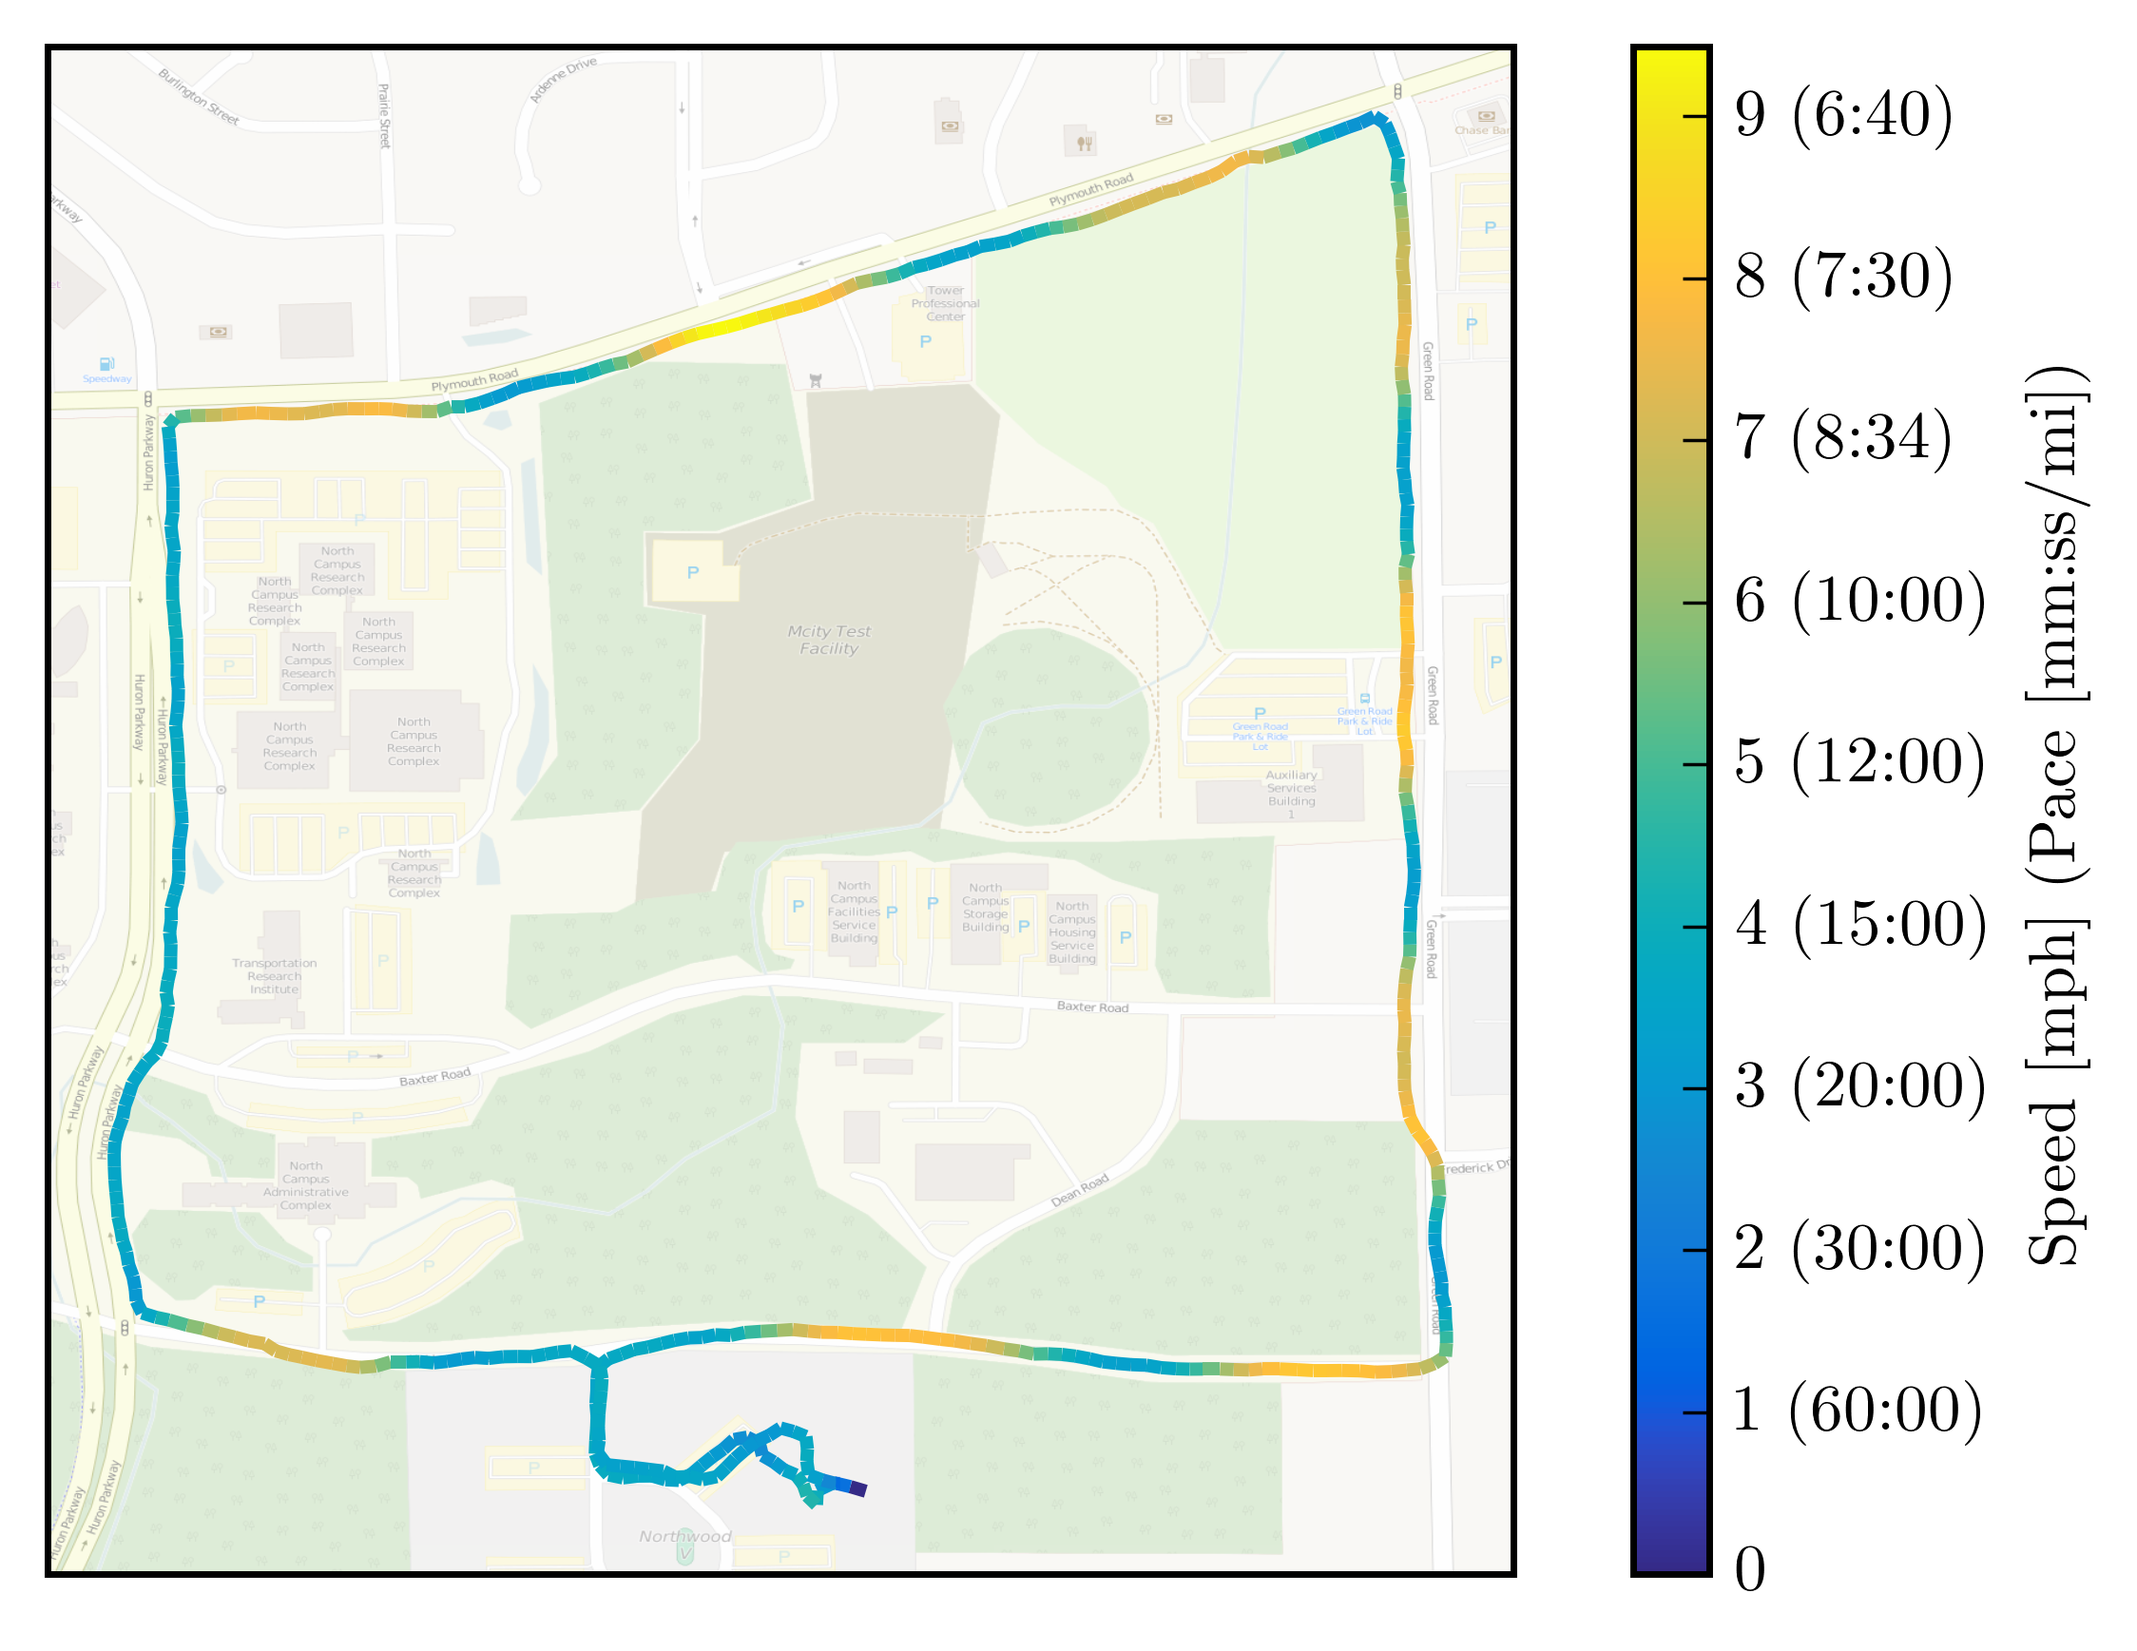
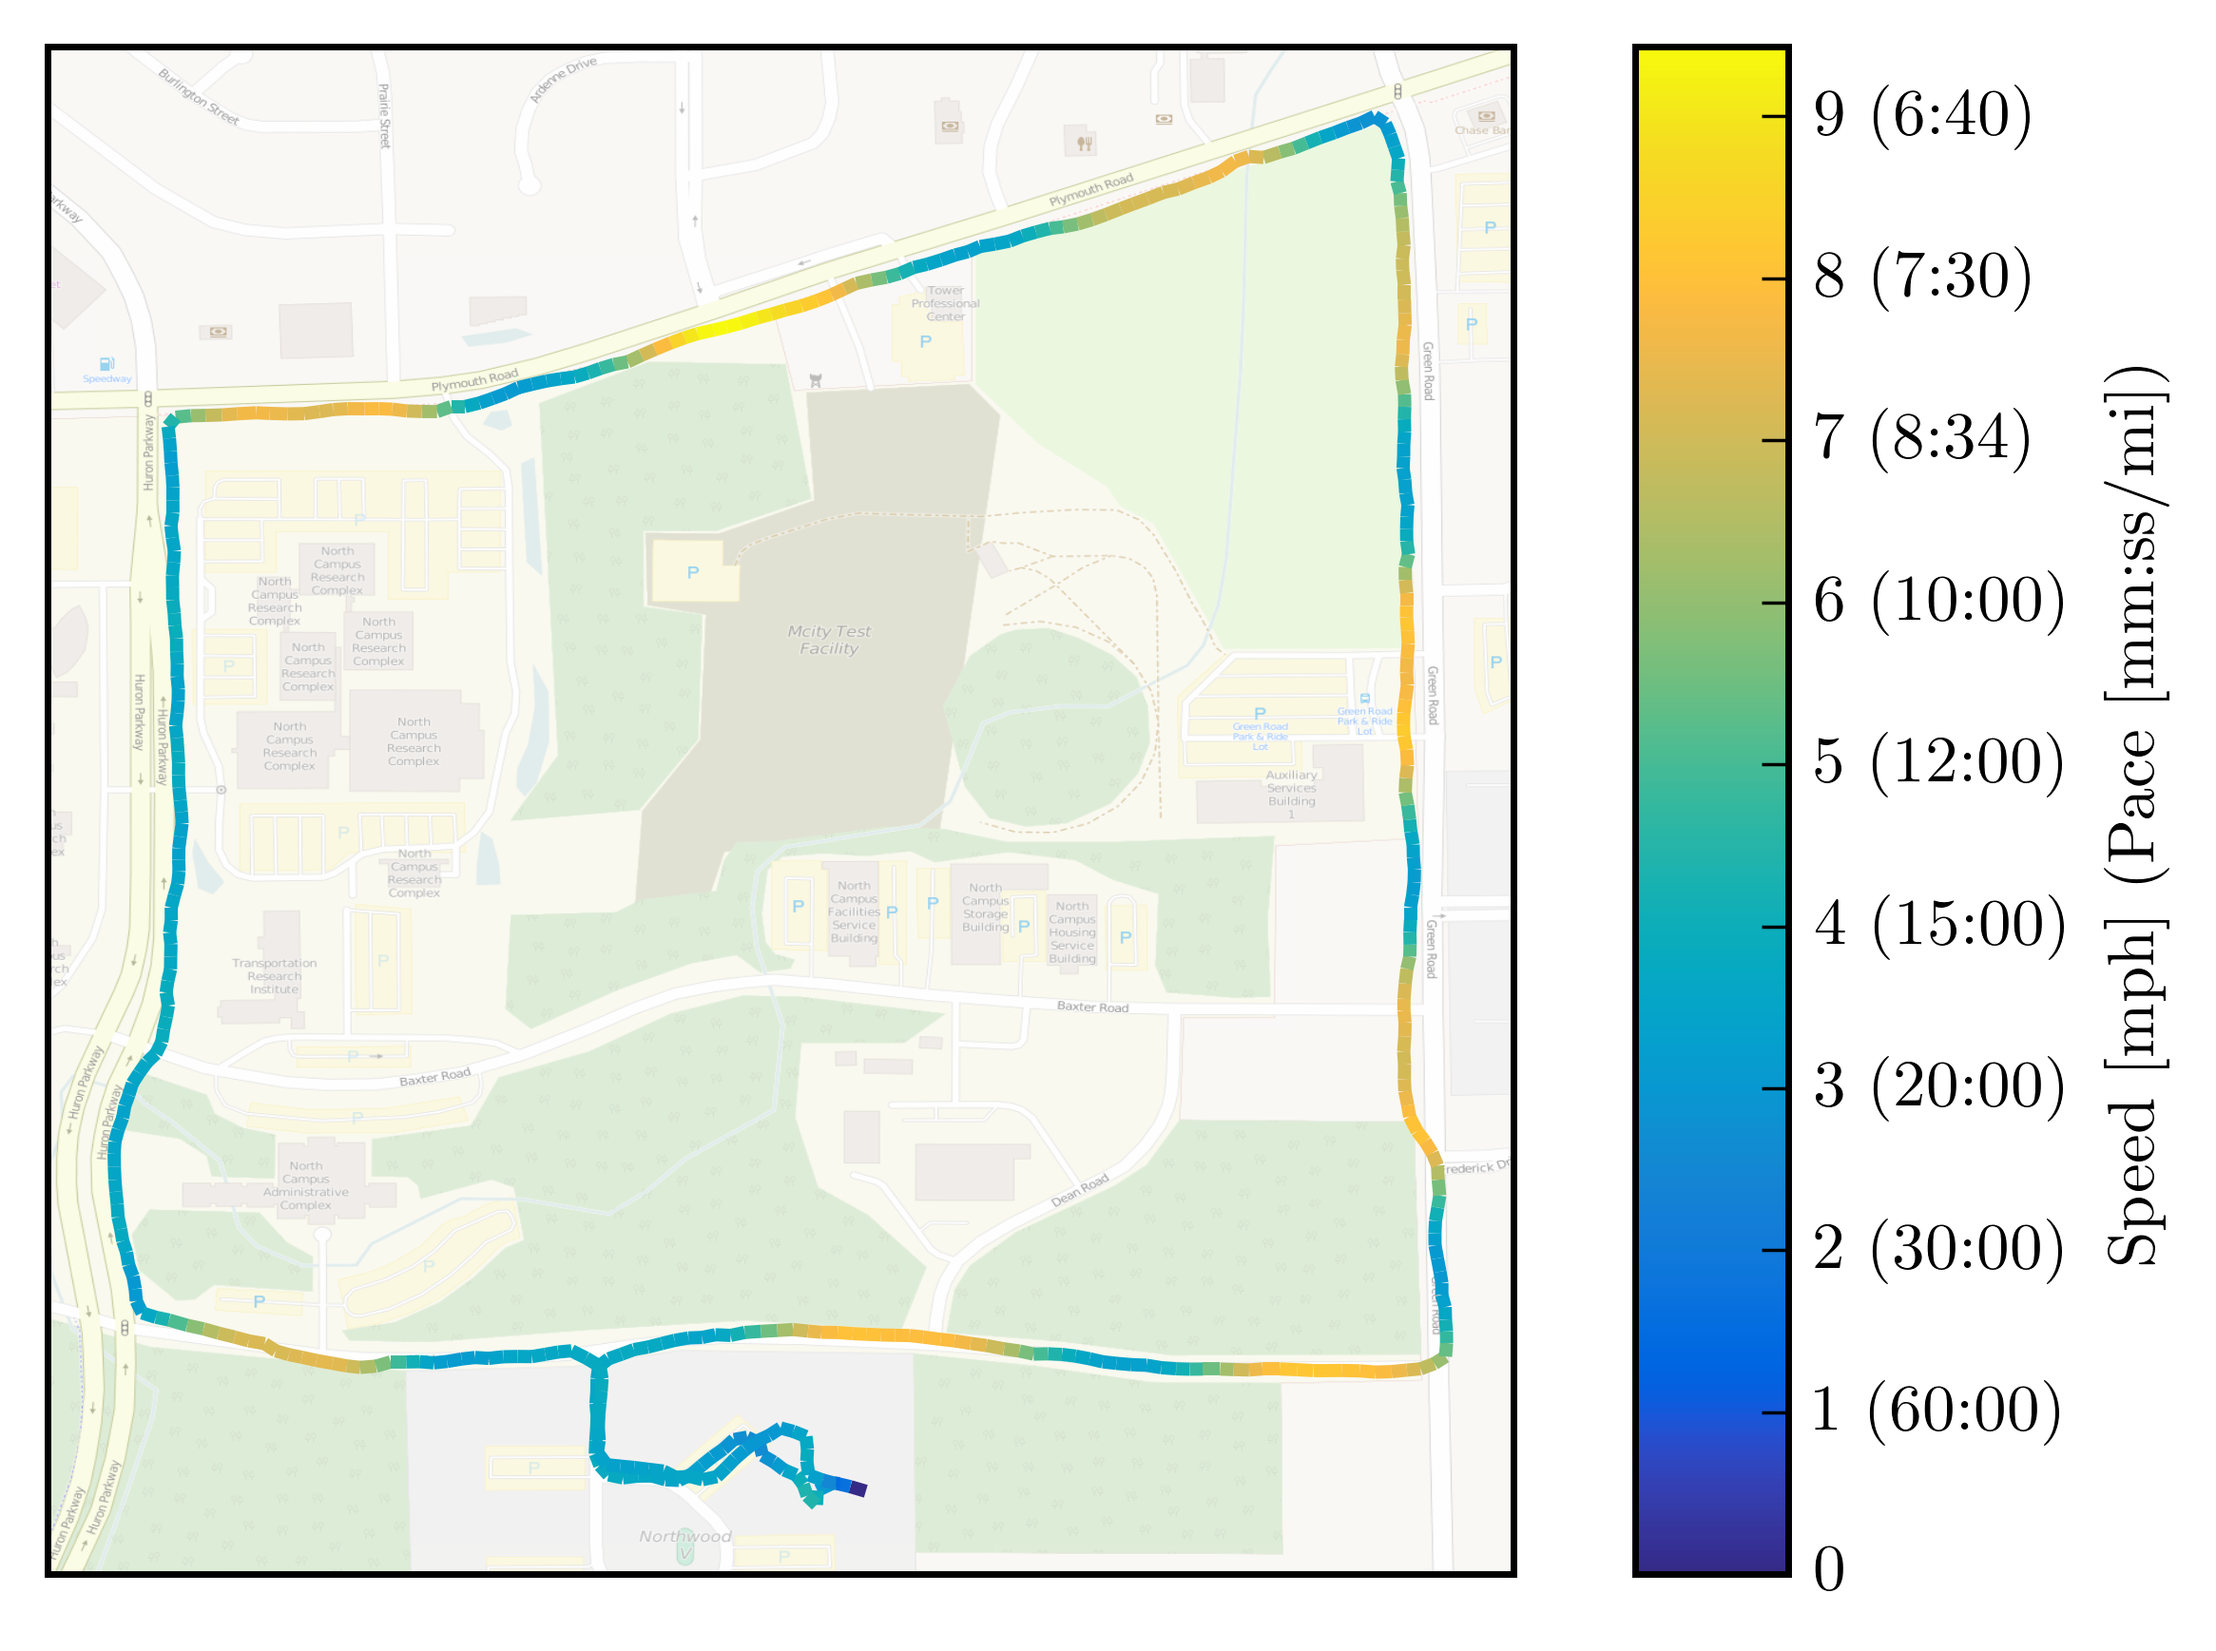
Added Speed/Elevation overlaid plot

diff --git a/GPX_Plotter/gpx_plotter.py b/GPX_Plotter/gpx_plotter.py
@@ -1,10 +1,12 @@
 #!/sw/bin/python3.4
 
 # Configure plotting.
+import datetime
 import matplotlib
 matplotlib.use('Agg')
 from matplotlib import pyplot as plt
 from matplotlib import cm, colors, ticker, rc
+from mpl_toolkits import axes_grid1
 import numpy as np
 import pylab
 
@@ -128,9 +130,13 @@ def processRawTrack(rawtrk):
 
     return(trk)
 
+# Time tick formatter function.
+def timeTicks(x, pos):                                                                                                                                                                                                                                                         
+    d = datetime.timedelta(seconds=x)                                                                                                                                                                                                                                          
+    return str(d)                                                                                                                                                                                                                                                              
+ 
 def plotElevation(trk, smoothed=True,
-                    xlabel='Time [H:MM:SS]', ylabel='Elevation [feet]'):
-    import datetime
+                    xlabel='Time [h:mm:ss]', ylabel='Elevation [feet]'):
     plt.figure()
     ax = plt.gca()
 
@@ -141,23 +147,16 @@ def plotElevation(trk, smoothed=True,
     plt.xlabel(xlabel)
     plt.ylabel(ylabel)
 
-#   d = [t['s'] for t in trk]
-#   d = '{:.2f}'.format(sum(d))
-#   plt.title('Distance: {:} miles, Time: {:}'.format(d, datetime.timedelta(seconds=x[-1])))
-
     if(smoothed):
-        plt.plot(x, f, 'k-')
+        plt.plot(x, f, 'k-', linewidth=0)
     else:
-        plt.plot(x, y, 'r-')
+        plt.plot(x, y, 'k.-')
 
     labels = [i for i in plt.gca().get_yticks()]
-    plt.fill_between(x, f, labels[0], color='0.75')
+    plt.fill_between(x, f, labels[0], color='0.85')
 
     plt.xticks(np.arange(min(x), max(x)+1, 150.0))
 
-    def timeTicks(x, pos):                                                                                                                                                                                                                                                         
-        d = datetime.timedelta(seconds=x)                                                                                                                                                                                                                                          
-        return str(d)                                                                                                                                                                                                                                                              
     formatter = matplotlib.ticker.FuncFormatter(timeTicks)                                                                                                                                                                                                                         
     ax.xaxis.set_major_formatter(formatter)  
     for tick in ax.get_xticklabels():
@@ -166,8 +165,7 @@ def plotElevation(trk, smoothed=True,
     return(plt)
 
 def plotSpeed(trk, smoothed=True,
-                    xlabel='Time [H:MM:SS]', ylabel='Speed [mph]'):
-    import datetime
+                    xlabel='Time [h:mm:ss]', ylabel='Speed [mph]'):
     plt.figure()
     ax = plt.gca()
 
@@ -178,24 +176,61 @@ def plotSpeed(trk, smoothed=True,
     plt.xlabel(xlabel)
     plt.ylabel(ylabel)
 
-#   d = [t['s'] for t in trk]
-#   d = '{:.2f}'.format(sum(d))
-#   plt.title('Distance: {:} miles, Time: {:}'.format(d, datetime.timedelta(seconds=x[-1])))
-
     if(smoothed):
         plt.plot(x, f, 'k-')
     else:
-        plt.plot(x, y, 'r-')
+        plt.plot(x, y, 'k.-')
  
     plt.xticks(np.arange(min(x), max(x)+1, 150.0))
 
-    def timeTicks(x, pos):                                                                                                                                                                                                                                                         
-        d = datetime.timedelta(seconds=x)                                                                                                                                                                                                                                          
-        return str(d)                                                                                                                                                                                                                                                              
     formatter = matplotlib.ticker.FuncFormatter(timeTicks)                                                                                                                                                                                                                         
     ax.xaxis.set_major_formatter(formatter)  
     for tick in ax.get_xticklabels():
         tick.set_rotation(45)
+
+    return(plt)
+
+def plotSpeedElevation(trk, smoothed=True,
+                    xlabel='Time [h:mm:ss]', y1label='Speed [mph]', y2label='Elevation [feet]'):
+
+    plt.figure()
+    ax1 = plt.gca()
+
+    x = [t['elap'] for t in trk]
+    y1 = [t['ds'] for t in trk]
+    f1 = butter_lowpass_filtfilt(y1, 5000, 50000)
+    y2 = [t['ele'] for t in trk]
+    f2 = butter_lowpass_filtfilt(y2, 5000, 50000)
+
+    plt.xlabel(xlabel)
+    plt.ylabel(y1label)
+
+    if(smoothed):
+        plt.plot(x, f1, 'k-')
+    else:
+        plt.plot(x, y1, 'k.-')
+ 
+    plt.xticks(np.arange(min(x), max(x)+1, 150.0))
+
+    formatter = matplotlib.ticker.FuncFormatter(timeTicks)                                                                                                                                                                                                                         
+    ax1.xaxis.set_major_formatter(formatter)  
+    for tick in ax1.get_xticklabels():
+        tick.set_rotation(45)
+
+    ax2 = ax1.twinx()
+
+    plt.ylabel(y2label)
+
+    if(smoothed):
+        plt.plot(x, f2, 'k-', linewidth=0)
+    else:
+        plt.plot(x, y2, 'k.-')
+
+    labels = [i for i in plt.gca().get_yticks()]
+    plt.fill_between(x, f2, labels[0], color='0.85')
+
+    ax1.set_zorder(ax2.get_zorder()+1)
+    ax1.patch.set_visible(False)
 
     return(plt)
 
@@ -317,7 +352,7 @@ def plotSpeedMap(trk, smoothed=True):
         else:
             return('{:d}'.format(int(x)))
     
-    fig.colorbar(cs, ax=ax, format=ticker.FuncFormatter(fmt), label='Speed [mph] (Pace [mm:ss/mi])')
+    add_colorbar(cs, ax=ax, format=ticker.FuncFormatter(fmt), label='Speed [mph] (Pace [mm:ss/mi])')
 
 #   pos = cbar.ax.get_position()
 #   cbar.ax.set_aspect('auto')
@@ -381,7 +416,7 @@ def plotElevationMap(trk, smoothed=True):
     implt = plt.imshow(img, zorder=0, extent=[xmin, xmax, ymin, ymax], aspect=ar, alpha=0.4) 
     cs = ax.add_collection(coll)
 
-    fig.colorbar(cs, ax=ax, label='Elevation [feet]')
+    add_colorbar(cs, ax=ax, label='Elevation [feet]')
 
     # Final reset of the extents to focus on the track despite OSM's tiling.
     xmin = min(x); xmax = max(x)
@@ -398,6 +433,16 @@ def plotElevationMap(trk, smoothed=True):
     ax.set_yticks([])
     return(plt)
 
+def add_colorbar(im, aspect=10, pad_fraction=0.0, **kwargs):
+    """Add a vertical color bar to an image plot."""
+    divider = axes_grid1.make_axes_locatable(im.axes)
+    width = axes_grid1.axes_size.AxesY(im.axes, aspect=1/aspect)
+    pad = axes_grid1.axes_size.Fraction(pad_fraction, width)
+    current_ax = plt.gca()
+    cax = divider.append_axes("right", size=width, pad=pad)
+    plt.sca(current_ax)
+    return im.axes.figure.colorbar(im, cax=cax, **kwargs)
+
 def plotReport(trk):
     from cmap_parula import cmap_parula
     import datetime
@@ -407,8 +452,10 @@ def plotReport(trk):
     import numpy as np
 
     fig = plt.figure()
-    gs = matplotlib.gridspec.GridSpec(2, 2, height_ratios=[1, 1], width_ratios=[1, 2], wspace=0.5) 
-    ax0 = plt.subplot(gs[0])
+    gs = matplotlib.gridspec.GridSpec(2, 2, height_ratios=[2, 1], width_ratios=[1, 1], wspace=0.5) 
+
+    # Plot speed map.
+    ax0 = plt.subplot(gs[0,0])
 
     x = np.array([t['lon'] for t in trk])
     y = np.array([t['lat'] for t in trk])
@@ -448,9 +495,9 @@ def plotReport(trk):
             return('{:d} ({:d}:{:02d})'.format(int(x), m, s))
         else:
             return('{:d}'.format(int(x)))
-    
-    fig.colorbar(cs, ax=ax0, format=ticker.FuncFormatter(fmt), label='Speed [mph]\n(Pace [mm:ss/mi])')
 
+    add_colorbar(cs, format=ticker.FuncFormatter(fmt), label='Speed [mph]\n(Pace [mm:ss/mi])')
+    
     # Final reset of the extents to focus on the track despite OSM's tiling.
     xmin = min(x); xmax = max(x)
     ymin = min(y); ymax = max(y)
@@ -465,8 +512,8 @@ def plotReport(trk):
     ax0.set_xticks([])
     ax0.set_yticks([]) 
 
-    ax1 = plt.subplot(gs[1])
-    ax1.plot(y,x)
+    # Plot elevation map.
+    ax1 = plt.subplot(gs[0,1])
 
     x = np.array([t['lon'] for t in trk])
     y = np.array([t['lat'] for t in trk])
@@ -497,7 +544,7 @@ def plotReport(trk):
     implt = plt.imshow(img, zorder=0, extent=[xmin, xmax, ymin, ymax], aspect=ar, alpha=0.4) 
     cs = ax1.add_collection(coll)
 
-    fig.colorbar(cs, ax=ax1, label='Elevation [feet]')
+    add_colorbar(cs, ax=ax1, label='Elevation [feet]')
 
     # Final reset of the extents to focus on the track despite OSM's tiling.
     xmin = min(x); xmax = max(x)
@@ -513,7 +560,8 @@ def plotReport(trk):
     ax1.set_xticks([])
     ax1.set_yticks([]) 
 
-    ax2 = plt.subplot(gs[2:])
+    # Plot bottom speed / elevation line plot.
+    ax2 = plt.subplot(gs[1,:])
 
     x = [t['elap'] for t in trk]
     y = [t['ds'] for t in trk]
@@ -545,7 +593,10 @@ def plotReport(trk):
     plt.plot(x, f, 'k-', linewidth=0)
 
     labels = [i for i in plt.gca().get_yticks()]
-    plt.fill_between(x, f, labels[0], color='0.75', alpha=0.5, zorder=0)
+    plt.fill_between(x, f, labels[0], color='0.85', zorder=0)
+
+    ax2.set_zorder(ax3.get_zorder()+1)
+    ax2.patch.set_visible(False)
 
     return(plt)
 
@@ -579,6 +630,10 @@ if(__name__ == '__main__' and hasattr(main, '__file__')):
                         default = False,
                         action='store_true',
                         help = 'plot elevation map data (default False)') 
+    parser.add_argument('--speedelevation', '--elevationspeed', '-se', '-es',
+                        default = False,
+                        action='store_true',
+                        help = 'plot speed and elevation (default False)') 
     parser.add_argument('--report', '-r',
                         default = False,
                         action='store_true',
@@ -588,21 +643,27 @@ if(__name__ == '__main__' and hasattr(main, '__file__')):
     infilename = args.infilename
     assert(infilename != ''), 'No filename given.'
 
-rawtrk = importGPX(infilename)
-trk = processRawTrack(rawtrk)
-
-if(args.elevation):
-    plt = plotElevation(trk)
-    plt.savefig(infilename + '_elevation.png', dpi=300)
-if(args.speed):
-    plt = plotSpeed(trk)
-    plt.savefig(infilename + '_speed.png', dpi=300)
-if(args.speedmap):
-    plt = plotSpeedMap(trk)
-    plt.savefig(infilename + '_speedmap.png', dpi=500)
-if(args.elevationmap):
-    plt = plotElevationMap(trk)
-    plt.savefig(infilename + '_elevationmap.png', dpi=500)
-if(args.report):  
-    plt = plotReport(trk)
-    plt.savefig(infilename + '_report.png', dpi=500)
+    opts = [a for a in vars(args) if getattr(args,a)]
+    assert(opts != ['infilename']), 'No options selected.'
+    
+    rawtrk = importGPX(infilename)
+    trk = processRawTrack(rawtrk)
+    
+    if(args.elevation):
+        plt = plotElevation(trk)
+        plt.savefig(infilename + '_elevation.png', dpi=300)
+    if(args.speed):
+        plt = plotSpeed(trk)
+        plt.savefig(infilename + '_speed.png', dpi=300)
+    if(args.speedelevation):
+        plt = plotSpeedElevation(trk)
+        plt.savefig(infilename + '_speedelevation.png', dpi=300)
+    if(args.speedmap):
+        plt = plotSpeedMap(trk)
+        plt.savefig(infilename + '_speedmap.png', dpi=500)
+    if(args.elevationmap):
+        plt = plotElevationMap(trk)
+        plt.savefig(infilename + '_elevationmap.png', dpi=500)
+    if(args.report):  
+        plt = plotReport(trk)
+        plt.savefig(infilename + '_report.png', dpi=500)
